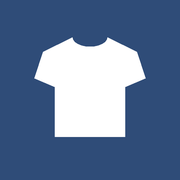
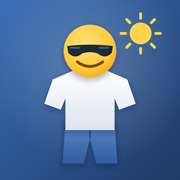
Add files via upload

diff --git a/sw.js b/sw.js
@@ -1,5 +1,5 @@
 // Service worker : l'app s'ouvre sans réseau et prend toujours la dernière version en ligne
-const CACHE = 'quotidien-v15';
+const CACHE = 'quotidien-v16';   // v16 : nouvelle icône
 const IA_CACHE = 'quotidien-ia-1';   // modèle du détourage intelligent : téléchargé une fois, gardé
 const SHELL = ['./', './index.html', './manifest.webmanifest', './icon-192.png', './icon-512.png', './icon-maskable-512.png', './apple-touch-icon.png'];
 
